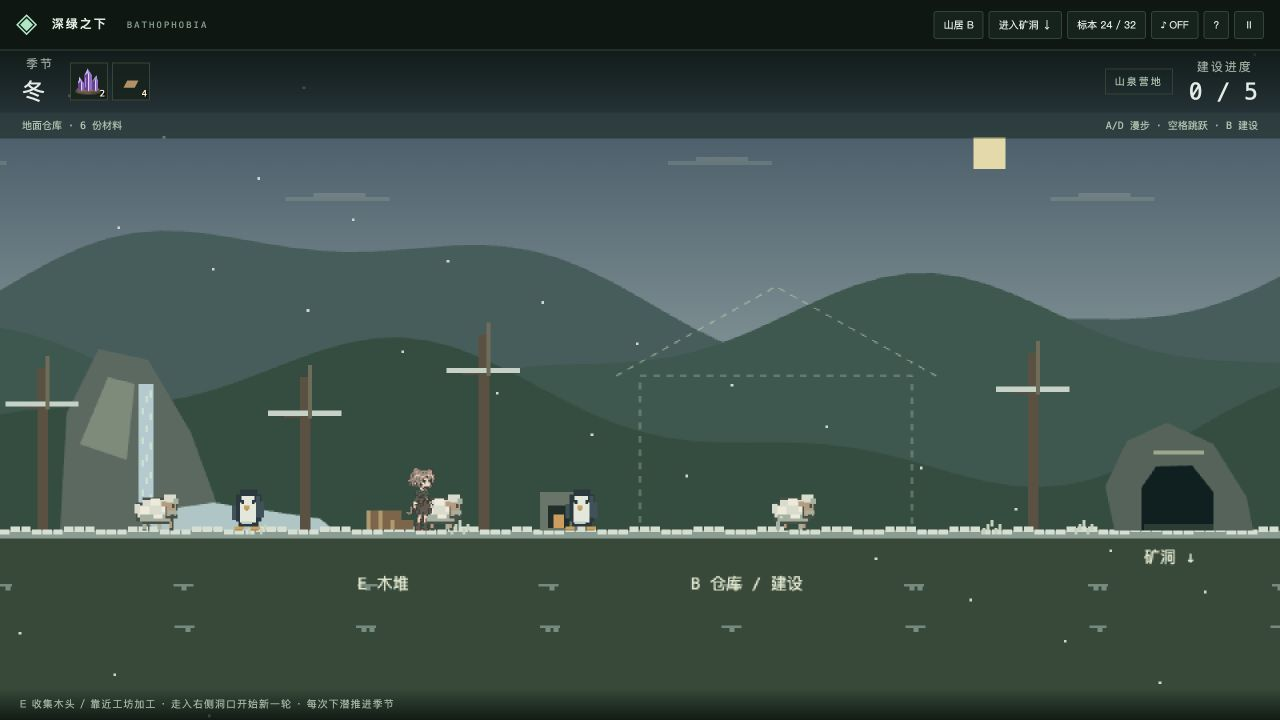
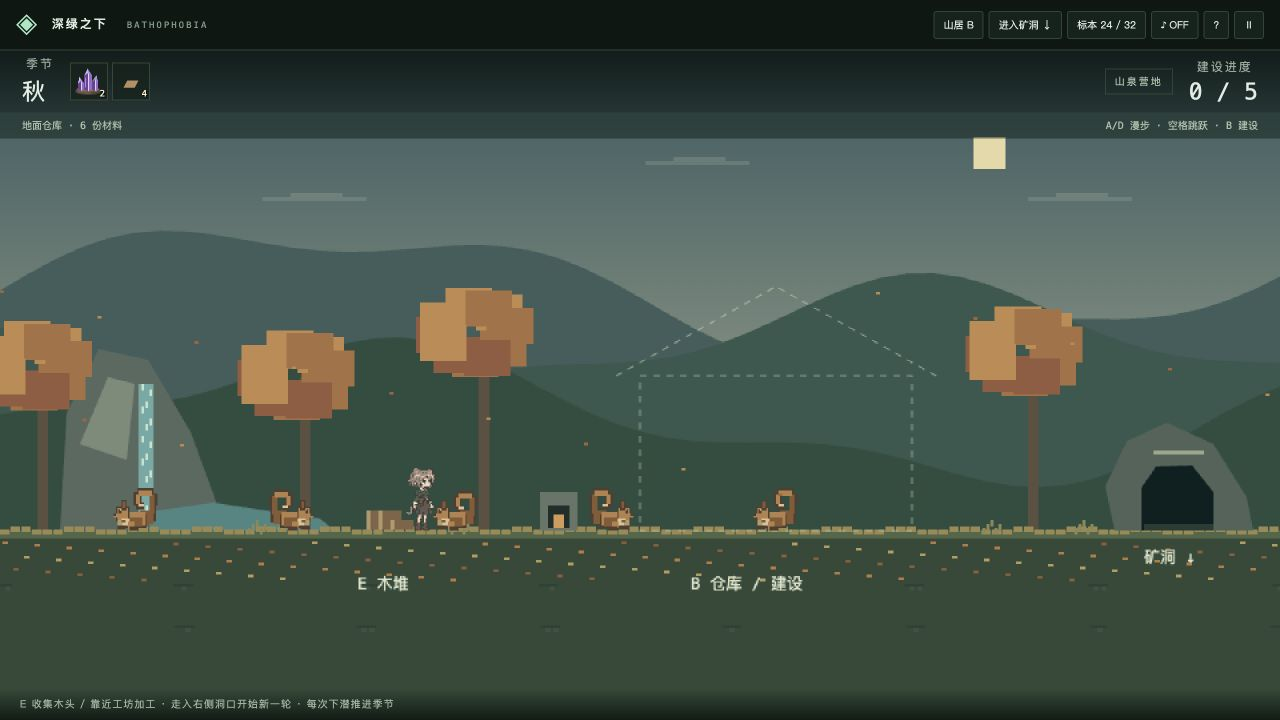
Fix winter tree branches and refresh autumn camp and volcanic screenshots

diff --git a/src/surface.js b/src/surface.js
@@ -11,7 +11,7 @@ for(let layer=0;layer<3;layer++){let base=g*(.5+layer*.13);let pts=[[0,g]];for(l
 // A rock-fed mountain spring, behind the walkable meadow.
 poly([[45,g],[50,g-88],[74,g-136],[111,g-128],[143,g-74],[170,g]],'#596a60');poly([[60,g-65],[81,g-115],[101,g-110],[95,g-53]],'#7b8c79');rect(104,g-110,11,102,winter?'#b0cbd0':'#6caaa5');for(let i=0;i<15;i++)rect(106+(i%3)*3,g-110+(i*13+t*40)%100,2,5,'#c2e2d0');poly([[104,g-13],[160,g-21],[240,g-9],[260,g+7],[130,g+14]],winter?'#aac7c6':'#4a8582');
 // Trees have one trunk / canopy algorithm, season-specific colors.
-for(let [x,h] of [[28,122],[225,115],[359,147],[771,133]]){rect(x,g-h,8,h,'#5c5140');rect(x-12,g-h+25,18,5,'#5c5140');if(!winter){let colors=autumn?['#a97143','#c28a4e','#955a3f']:season===0?['#6b9465','#88ab73','#5c825c']:['#4c7954','#71935e','#406b4d'];for(let k=0;k<11;k++){let a=k*2.4,xx=x+Math.sin(a)*27,yy=g-h+Math.cos(a)*20;rect(xx-20,yy-15,35,27,colors[k%3])}}else{rect(x-24,g-h+25,55,4,'#c3d2c7');rect(x+6,g-h-9,3,40,'#6f6d58')}}
+for(let [x,h] of [[28,122],[225,115],[359,147],[771,133]]){rect(x,g-h,8,h,'#5c5140');rect(x-12,g-h+25,18,5,'#5c5140');if(!winter){let colors=autumn?['#a97143','#c28a4e','#955a3f']:season===0?['#6b9465','#88ab73','#5c825c']:['#4c7954','#71935e','#406b4d'];for(let k=0;k<11;k++){let a=k*2.4,xx=x+Math.sin(a)*27,yy=g-h+Math.cos(a)*20;rect(xx-20,yy-15,35,27,colors[k%3])}}else{for(let [side,level,length] of [[-1,35,28],[1,47,32],[-1,70,22],[1,88,18]]){let y=g-h+level;poly([[x+4,y+8],[x+4+side*length,y-12],[x+4+side*(length+5),y-27],[x+4+side*(length+2),y-25],[x+4+side*(length-3),y-10],[x+4,y+2]],'#6f6d58');let bx=x+4+side*(length-8);rect(Math.min(bx,bx+side*12),y-10,12,2,'#c3d2c7')}poly([[x+3,g-h+27],[x-5,g-h+5],[x-4,g-h-10],[x-2,g-h-9],[x-2,g-h+4],[x+6,g-h+23]],'#6f6d58');rect(x,g-h,3,h,'#7b7760');rect(x-3,g-h+8,4,2,'#d1dccc')}}
 rect(0,g,960,height-g,winter?'#879e91':'#526748');rect(0,g+6,960,height-g,'#334a39');for(let x=0;x<960;x+=8){let v=Math.sin(x*12.7);rect(x,g-3+(v>0?0:2),7,4,winter?'#d5dfd1':autumn?'#9b8952':'#83a66b');if(autumn)rect(x+2,g+8+(x*17%29),4,2,['#b67d40','#925b38','#b59d5b'][Math.floor(x/8)%3]);if(season===0&&x%24===0){rect(x,g-8,2,5,'#a3b177');rect(x-1,g-9,4,2,'#ddc4ae')}}
 for(let i=0;i<55;i++){let xx=(i*137)%960,yy=g+40+(i*31)%Math.max(35,height-g-80);rect(xx,yy,9,2,winter?'#6e8b7d':'#2b4235');if(i%3===0)rect(xx+4,yy+2,4,3,winter?'#738e80':'#3c5340')}for(let xx of [186,338,737,806]){for(let k=0;k<5;k++)rect(xx+k*3,g-2-k%3*3,2,5,winter?'#c2d0bb':autumn?'#8b8955':'#8caa72')}
 // Entrance, timber pile and workshop occupy the same surface map.

diff --git a/README.md b/README.md
@@ -16,11 +16,11 @@
 
 </div>
 
-![矿物洞穴中的探索 / Exploring the mineral caves](docs/screenshots/current-cave.jpg)
+![秋季山居 / Autumn homestead](docs/screenshots/current-surface.jpg)
 
-| 四季山居 · Seasonal homestead | 地质探索 · Geological exploration |
+| 营地休整 · Cave camp | 火山探索 · Volcanic caves |
 | :---: | :---: |
-| ![最新地表与角色 / Current surface and player](docs/screenshots/current-surface.jpg) | ![萤石与方解石晶洞 / Fluorite–calcite geode](docs/screenshots/geode-fluorite-seed-11.png) |
+| ![营地与角色 / Player at a cave camp](docs/screenshots/current-camp.jpg) | ![玄武岩与岩浆 / Basalt and lava](docs/screenshots/current-volcano.jpg) |
 
 ## 中文
 
